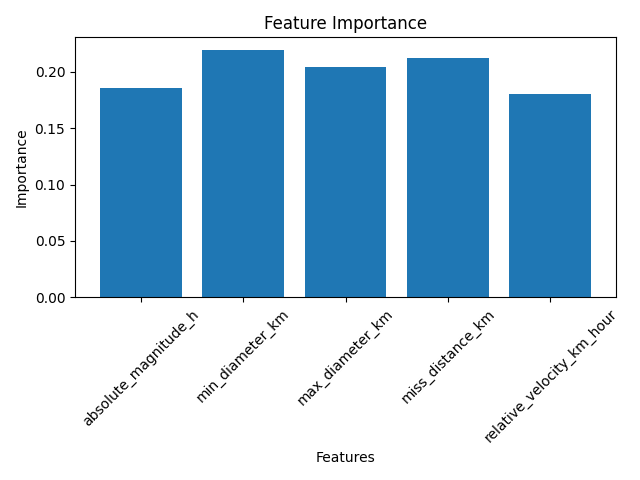
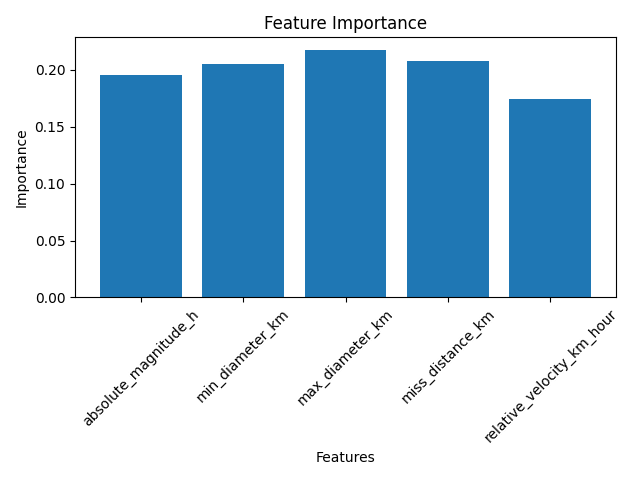
fixing connection issue

diff --git a/frontend/build/model.html b/frontend/build/model.html
@@ -47,7 +47,7 @@
 
         <!-- Feature Importance Plot -->
         <div class="feature-importance-plot">
-            <img src="static/feature_importance_plot.jpg" alt="Feature Importance Plot">
+            <img src="static/feature_importance_plot.png" alt="Feature Importance Plot">
         </div>
 
     </div>

diff --git a/model/model.py b/model/model.py
@@ -13,6 +13,9 @@ from sklearn.metrics import accuracy_score
     #print("Data loaded from API")
     #return neo_data
 
+model = RandomForestClassifier()
+
+
 def load_neo_data():
     # Connect to MongoDB
     client = MongoClient('localhost', 27017)
@@ -21,6 +24,7 @@ def load_neo_data():
 
     # Fetch data from MongoDB
     neo_data = list(collection.find())
+    print("data from mongo loaded")
 
     return neo_data
 
@@ -45,6 +49,8 @@ def preprocess_data(neo_data):
     # Create a DataFrame from the extracted features and labels
     df = pd.DataFrame(features, columns=['absolute_magnitude_h', 'min_diameter_km', 'max_diameter_km', 'miss_distance_km', 'relative_velocity_km_hour'])
     df['is_potentially_hazardous'] = labels
+    print("data preprocessed")
+
     return df
 
 def train_model(dataframe):
@@ -55,6 +61,7 @@ def train_model(dataframe):
     # Train the model
     model = RandomForestClassifier()
     model.fit(X_train, y_train)
+    print("model trained")
     return model, X_test, y_test
 
 def evaluate_model(model, X_test, y_test):
@@ -63,6 +70,8 @@ def evaluate_model(model, X_test, y_test):
 
     # Model evaluation
     accuracy = accuracy_score(y_test, predictions)
+    print("model evaluated")
+
     return accuracy
 
 def save_feature_importance_plot(model, dataframe, plot_filename):
@@ -77,6 +86,8 @@ def save_feature_importance_plot(model, dataframe, plot_filename):
 
     # Save the plot
     plt.savefig(plot_filename)
+    print("saved figure")
+
 
 def predict_danger(absolute_magnitude, min_diameter, max_diameter, miss_distance, relative_velocity):
     # Preprocess input data
@@ -85,13 +96,11 @@ def predict_danger(absolute_magnitude, min_diameter, max_diameter, miss_distance
 
     # Make prediction using the trained model
     prediction = model.predict(input_data)
-    print(model)
 
     # Return the predicted danger level
     return prediction[0]
 
 if __name__ == "__main__":
-    model = []
     neo_data = load_neo_data()
     df = preprocess_data(neo_data)
     model, X_test, y_test = train_model(df)

diff --git a/model/modeltrain.py b/model/modeltrain.py
@@ -1,0 +1,11 @@
+# This script should be executed separately from the Flask application to train the model
+
+from model import load_neo_data, preprocess_data, train_model, evaluate_model, save_feature_importance_plot
+
+if __name__ == "__main__":
+    neo_data = load_neo_data()
+    df = preprocess_data(neo_data)
+    model, X_test, y_test = train_model(df)
+    accuracy = evaluate_model(model, X_test, y_test)
+    print("Accuracy:", accuracy)
+    save_feature_importance_plot(model, df, 'frontend/static/feature_importance_plot.png')
